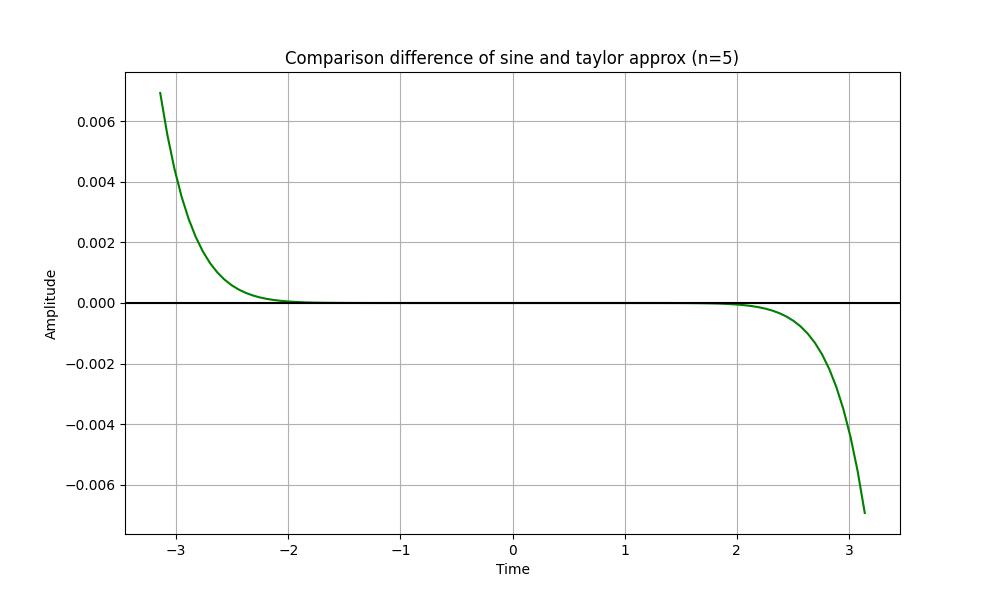
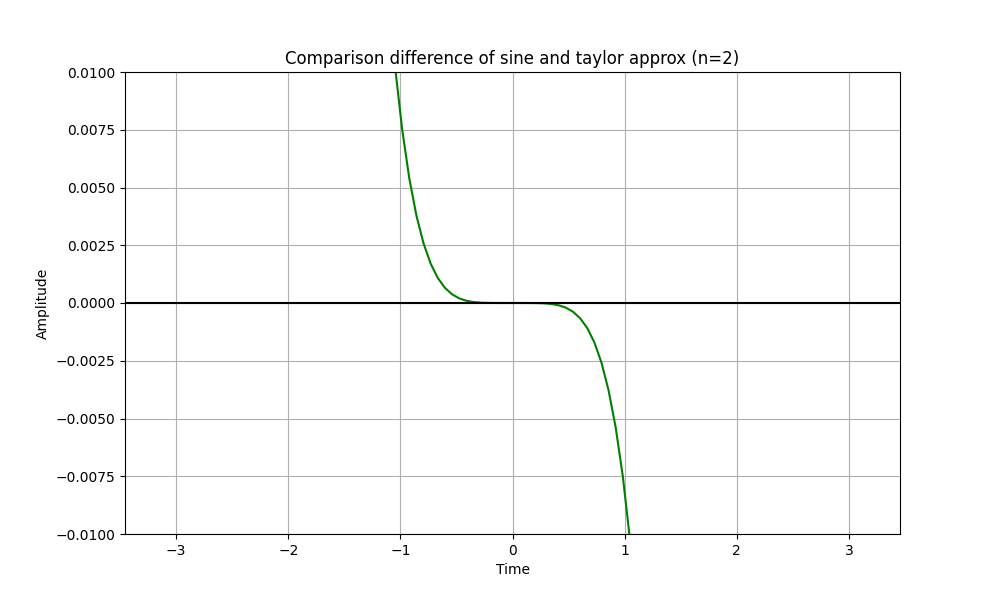
Corrected images 3 and 4

diff --git a/Laboratory2/Exercise3.py b/Laboratory2/Exercise3.py
@@ -5,14 +5,14 @@ import math
 # Taylor Approximations Functions
 def taylor_sin(x, n):
     res = 0
-    for n in range(n):
-        res += ((-1)**n * x**(2*n + 1)) / math.factorial(2*n + 1)
+    for i in range(n):
+        res += ((-1)**i * x**(2*i + 1)) / math.factorial(2*i + 1)
     return res
 
 def taylor_cos(x, n):
     res = 0
-    for n in range(n):
-        res += ((-1)**n * x**(2*n)) / math.factorial(2*n)
+    for i in range(n):
+        res += ((-1)**i * x**(2*i)) / math.factorial(2*i)
     return res
 
 
@@ -47,7 +47,10 @@ def print_function(f, name, n=5, color="green", limited=False):
     plot.ylabel('Amplitude')
     plot.grid(True, which='both')
     plot.axhline(y=0, color='k')
+
     if limited:
+        plot.ylim(-0.01, 0.01)
+    else:
         plot.ylim(0.5, 1.5)
     
     plot.show()
@@ -56,10 +59,10 @@ def print_function(f, name, n=5, color="green", limited=False):
 
 # Difference Functions
 def diff_sin(x, n):
-    return np.sin(x) - taylor_sin(x, n)
+    return taylor_sin(x, n) - np.sin(x)
 
 def diff_cos(x, n):
-    return np.cos(x) - taylor_cos(x, n)
+    return taylor_cos(x, n) - np.cos(x)
 
 def formula(x, n):
     # sin²(x) + cos²(x)
@@ -70,6 +73,6 @@ def formula(x, n):
 # Main Programm
 print_comparison(np.sin, taylor_sin, "sin", "Taylor sin", n=2)
 print_comparison(np.cos, taylor_cos, "cos", "Taylor cos", n=2)
-print_function(diff_sin, "difference of sine and taylor approx", n=5)
-print_function(diff_cos, "difference of cos and taylor approx", n=5)
-print_function(formula, "sin²(x) + cos²(x)", n=2, limited=True)
+print_function(diff_sin, "difference of sine and taylor approx", n=2, limited=True)
+print_function(diff_cos, "difference of cos and taylor approx" , n=2, limited=True)
+print_function(formula, "sin²(x) + cos²(x)", n=2)
